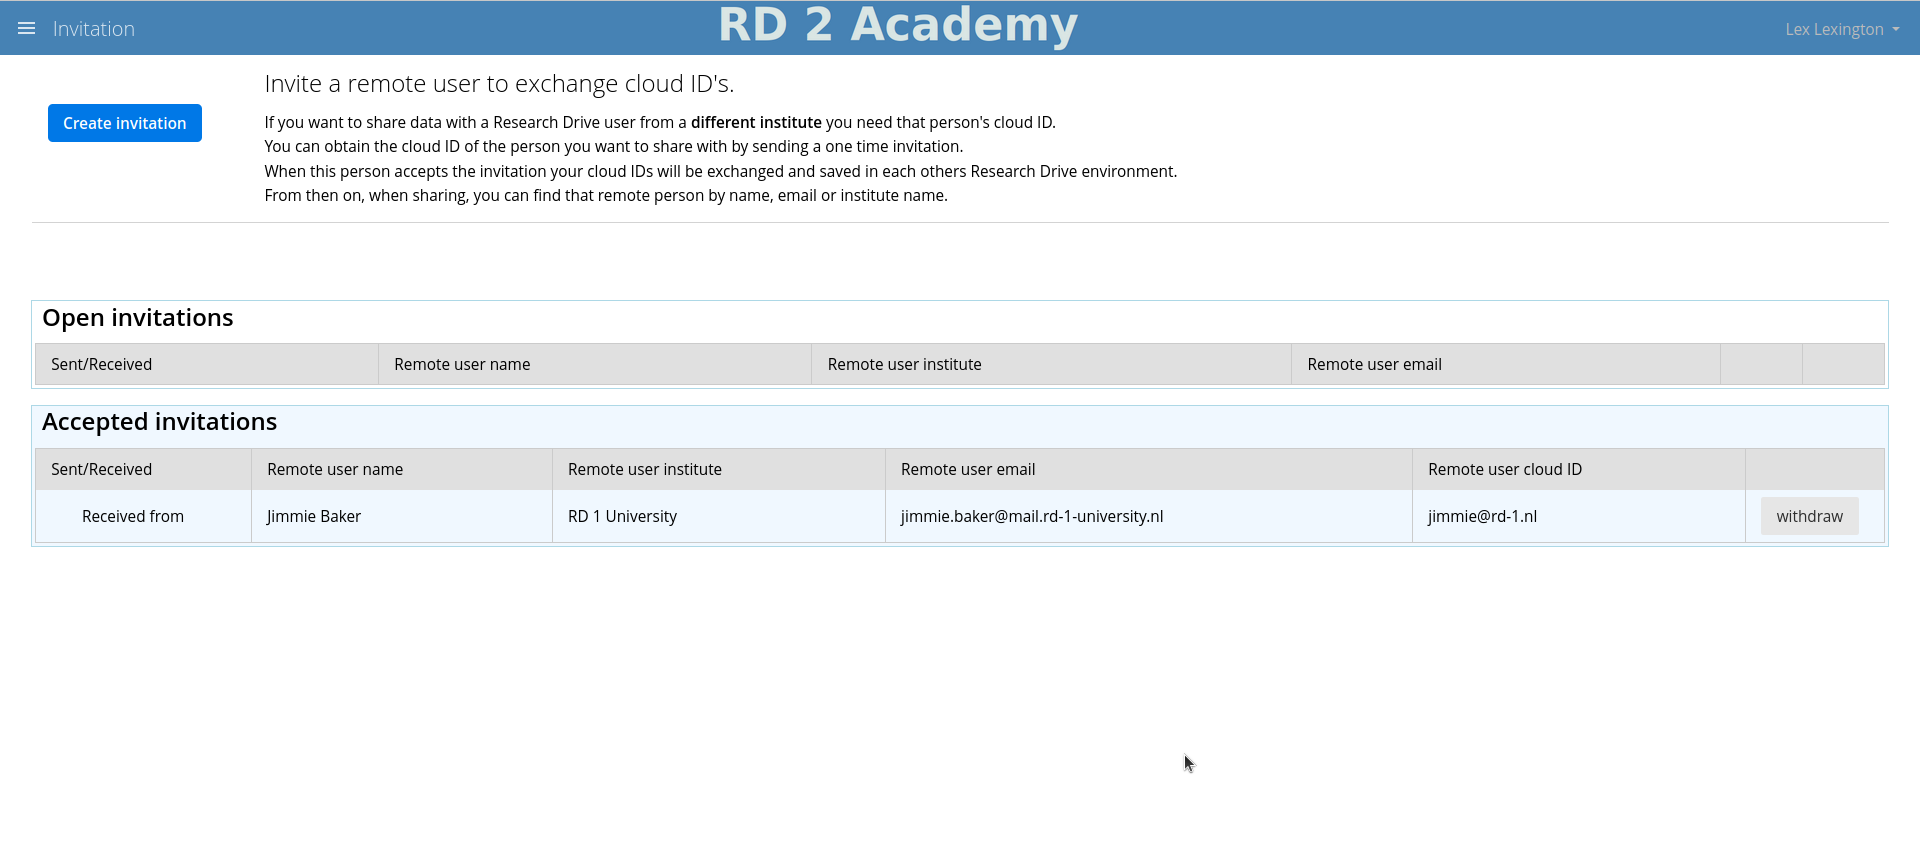
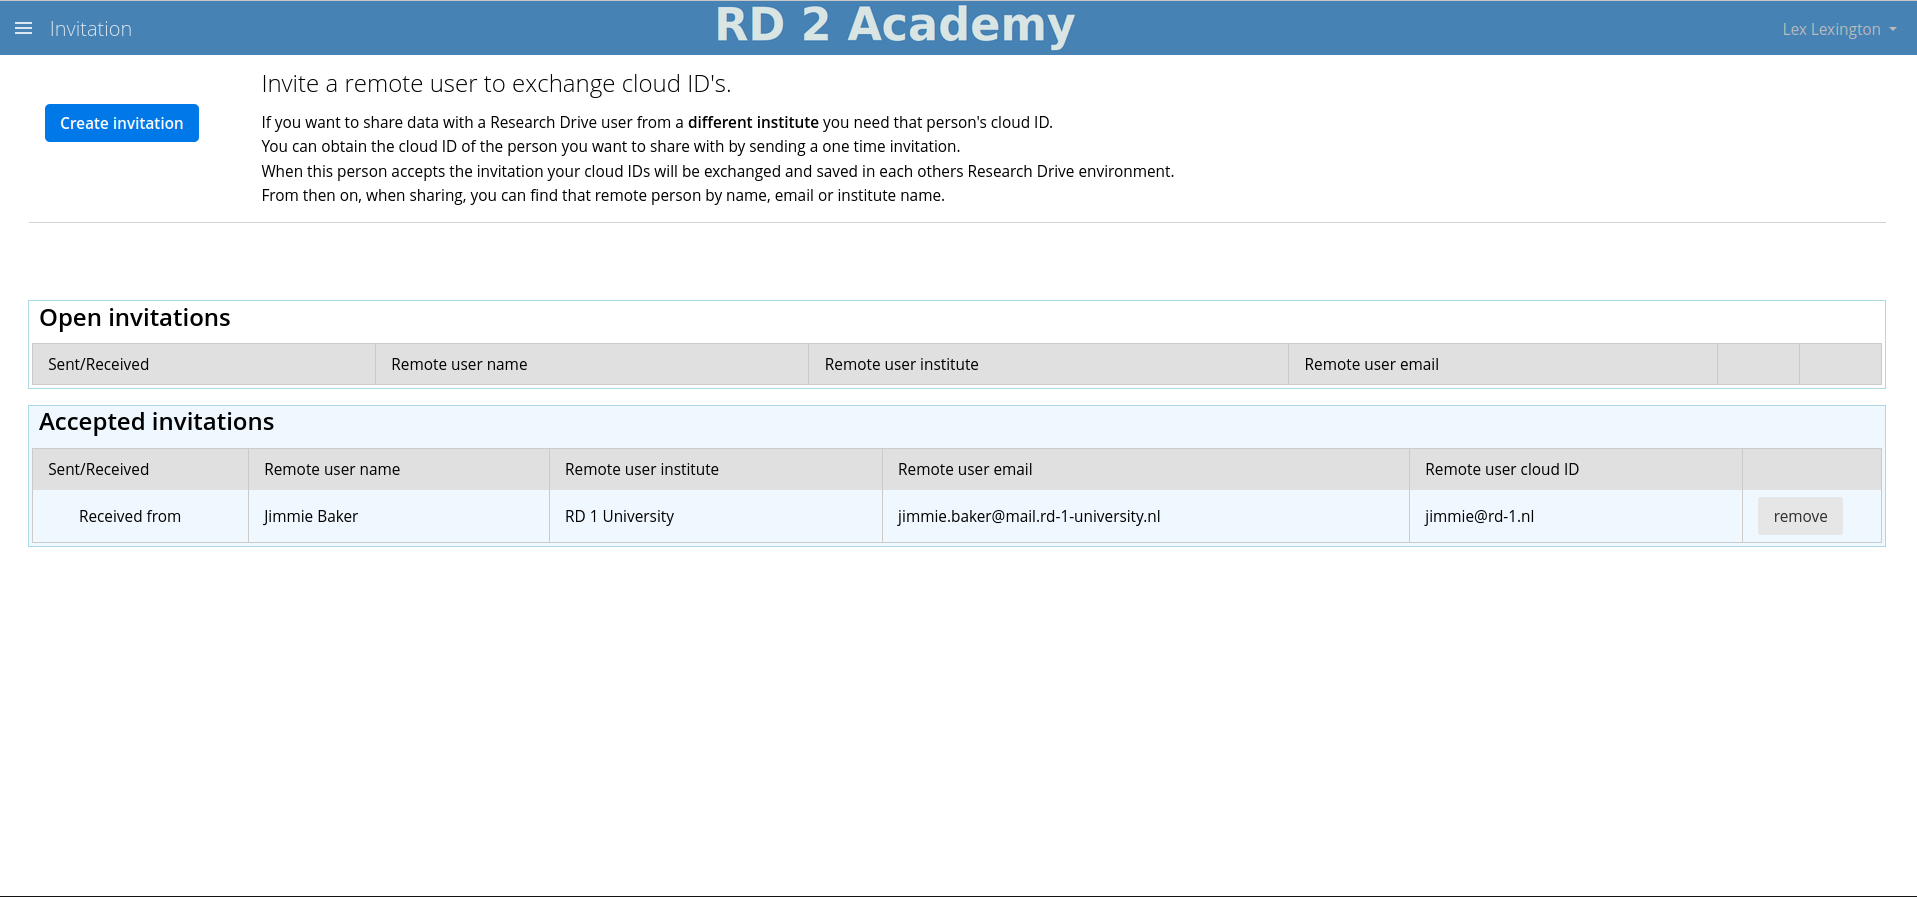
Add 'Activation' section to README. Add 'Removing an accepted invitation' section to user manual. Update a user manual img.

diff --git a/USER-MANUAL.md b/USER-MANUAL.md
@@ -134,7 +134,14 @@ This goes for Jimmie in his Research Drive environment as well.
 
 ![Display the accepted invitation](img/rd-2-display-accepted-invitation.png "Display the accepted invitation")<br>
 Fig.13 - Display the accepted invitation.<br>
+#### Removing an accepted invitation
+<p>
+Both sender and receiver can remove an accepted invitation by clicking the 'remove' button, however, an accepted invitation exists on both sender and receiver Research Drive environments and removing it on one environment does not affect the invitation on the other. If eg. the sender removes the accepted invitation this removes the cloud ID and information of the remote user (the receiver) from the Research Drive environment of the sender and for the sender account. The consequence is that the sender cannot search for the receiver anymore when creating a share. A federated share for the receiver can still be created by the sender but only by filling in the cloud ID 'by hand'.<br>
+Since the invitation also exists on the receiver's environment the receiver still sees an accepted invitation and still can search for the sender when creating shares. Also removing the invitation makes cloud ID and receiver information unavailable for the sender but not for any other users on the sender's environment that may possibly have their own accepted invitations with that same receiver.<br>
+Removing an accepted invitation by the receiver has exactly the same consequences but then the sender is the remote user that cannot be found anymore by the receiver.<br>
 <br>
+Please note that <b>no existing shares between the two users are affected when removing an invitation!</b><br>
+</p>
 
 ### Successfull exchange of cloud IDs and enhanced federated sharing support
 <p>

diff --git a/README.md b/README.md
@@ -35,6 +35,12 @@ Use one of the [official releases](/sara-nl/oc-invitation/releases) or build you
 Deploy the app by copying the extracted `invitation` folder of the official release or your own custom build to the Owncloud `apps` folder.<br>
 Finally the admin should activate the app. It should than be present as a menu entrance for all users.
 
+#### Activation
+To activate enhanced federated sharing (search and display invited remote users in the share dialog) the following configuration must be added to the `config.php` file of the Owncloud instance:
+```
+sharing.remoteShareesSearch' => '\\OCA\\Invitation\\Service\\RemoteUserService
+```
+
 ---
 ### Configuration
 To be able to send invitations between Owncloud instances the app must be installed on each one of them.<br>
